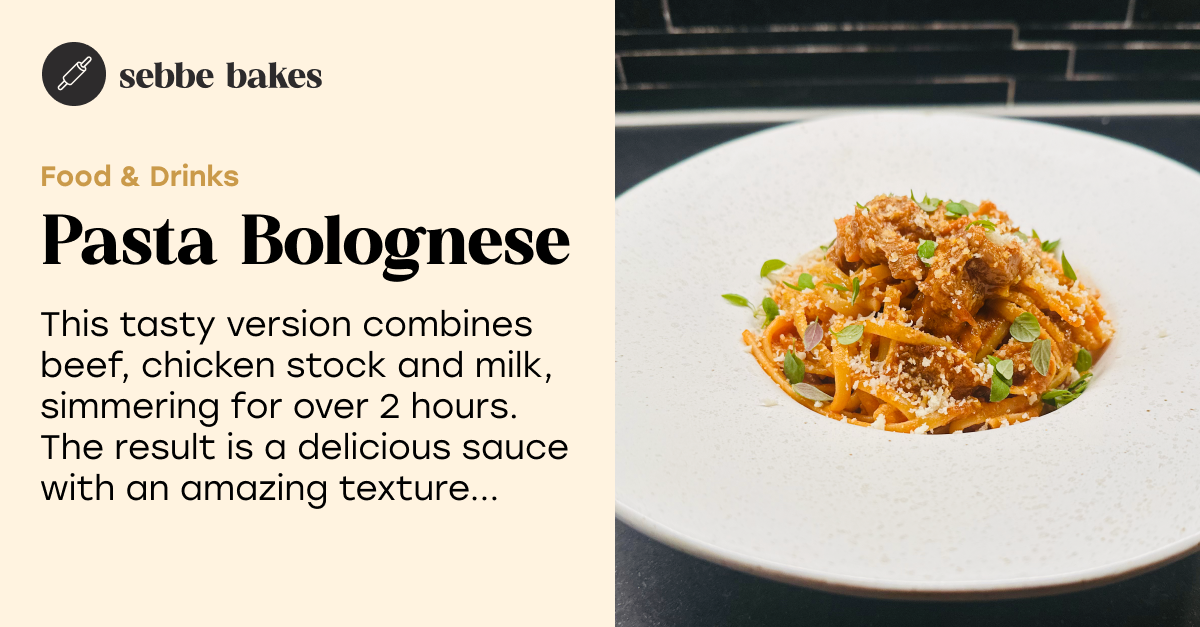
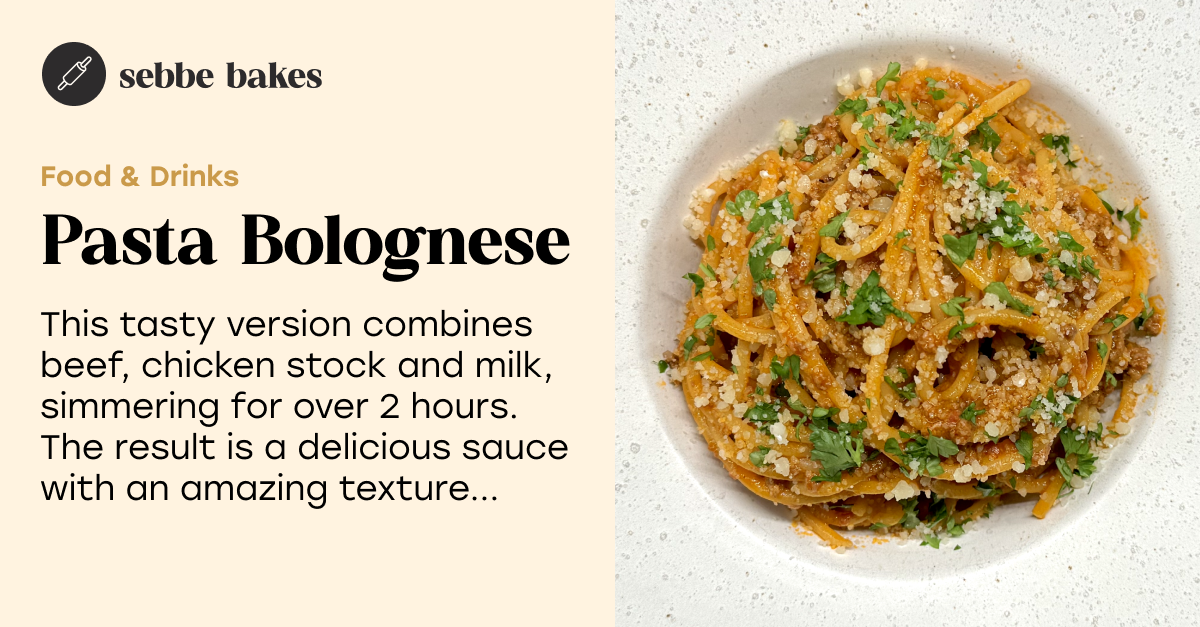
Image tweaks

diff --git a/src/pages/food-and-drinks/bolognese.tsx b/src/pages/food-and-drinks/bolognese.tsx
@@ -7,14 +7,15 @@ import Ingredients from "components/Ingredients";
 import Alert from "components/Alert";
 import MethodImage from "components/MethodImage";
 
-import heroImage from "public/images/recipes/bolognese/thumbnails/tall.jpg";
+import heroImage from "public/images/recipes/bolognese/thumbnails/tall.png";
 
 import metaImage from "public/images/recipes/bolognese/thumbnails/meta.png";
 import image1 from "public/images/recipes/bolognese/1.jpg";
 import image2 from "public/images/recipes/bolognese/2.jpg";
 import image3 from "public/images/recipes/bolognese/3.jpg";
 import image4 from "public/images/recipes/bolognese/4.jpg";
-import image5 from "public/images/recipes/bolognese/5.jpg";
+import image5 from "public/images/recipes/bolognese/5.png";
+import image6 from "public/images/recipes/bolognese/6.png";
 import Method from "components/Method";
 
 const INGREDIENTS = [
@@ -43,7 +44,7 @@ const INGREDIENTS = [
       },
       {
         value: 18.75,
-        label: "Tomato paste (or purée)",
+        label: "Tomato paste",
       },
       {
         value: 17.5,
@@ -58,6 +59,10 @@ const INGREDIENTS = [
         label: "Carrot",
       },
       {
+        value: 7.5,
+        label: "Demi-glace (optional)",
+      },
+      {
         value: 0.2,
         label: "Cloves of garlic",
         valueSuffix: false,
@@ -67,6 +72,12 @@ const INGREDIENTS = [
         value: 0.25,
         label: "Bay leaf",
         valueSuffix: false,
+      },
+      {
+        value: 1,
+        label: "Pinch of dried oregano",
+        valueSuffix: false,
+        excludeValue: true,
       },
       {
         value: 1,
@@ -81,7 +92,7 @@ const INGREDIENTS = [
     ingredients: [
       {
         value: 125,
-        label: "Spaghetti or papardelle",
+        label: "Spaghetti or linguine",
       },
     ],
   },
@@ -90,7 +101,7 @@ const INGREDIENTS = [
     ingredients: [
       {
         value: 99999,
-        label: "Grated Parmesan or Pecorino",
+        label: "Grated Parmesan",
         excludeValue: true,
         valueSuffix: false,
       },
@@ -208,13 +219,14 @@ const STEPS = [
     of the wine has evaporated.
   </Text>,
   <Text extra={<MethodImage src={image4} alt="" />}>
-    Add the <b>tomato paste</b>, <b>garlic</b> and pinch of freshley shredded{" "}
-    <b>nut meg</b>. Let it cook for another 5 minutes.
+    Add the <b>tomato paste</b>, <b>garlic</b>, a pinch of freshley shredded{" "}
+    <b>nut meg</b> and a <em>small</em> pinch of <b>dried oregano</b>. Let it
+    cook for another 5 minutes.
   </Text>,
   <>
     <Text>
-      Add the <b>bay leaf</b> and pour in the <b>chicken stock</b> and{" "}
-      <b>milk</b>.
+      Add the <b>bay leaf</b> and the optional <b>demi-glace</b>, and pour in
+      the <b>chicken stock</b> and <b>milk</b>.
       <br />
       <br />
       Let everything cook on low heat for <b>2–2½ hours</b> without a lid. Stir
@@ -263,7 +275,14 @@ const STEPS = [
     Stir the pasta and the sauce and <b>let it all combine</b> for a minute or
     two.
   </Text>,
-  <Text extra={<MethodImage src={image5} alt="" />}>
+  <Text
+    extra={
+      <>
+        <MethodImage src={image6} alt="" />
+        <MethodImage src={image5} alt="" />
+      </>
+    }
+  >
     Serve the dish with some parmesan, freshly grounded black bepper, olive oil
     and fresh oregano sprinkled on top.
   </Text>,

diff --git a/src/components/Article/Article.tsx b/src/components/Article/Article.tsx
@@ -22,11 +22,12 @@ export const Article = ({ recipe, first, type }: ArticleProps) => {
             priority
             height={483}
             alt=""
-            className="w-full h-auto lg:w-[613px]"
+            className="w-full h-auto lg:w-[613px] object-cover"
             placeholder="blur"
             sizes="(max-width: 768px) 100vw,
             (max-width: 1200px) 40vw,
             40vw"
+            quality={100}
           />
         </Link>
         <Link href={recipe.category.path}>
@@ -53,11 +54,10 @@ export const Article = ({ recipe, first, type }: ArticleProps) => {
             width={408}
             height={196}
             alt=""
-            className="w-full h-full lg:w-[408px] lg:h-[196px]"
+            className="w-full h-auto lg:w-[408px] lg:h-[196px] object-cover"
             placeholder="blur"
-            sizes="(max-width: 768px) 100vw,
-            (max-width: 1200px) 33vw,
-            33vw"
+            sizes="(max-width: 768px) 100vw, (max-width: 1200px) 33vw, 33vw"
+            quality={100}
           />
         </Link>
         <Link href={recipe.category.path}>
@@ -84,11 +84,12 @@ export const Article = ({ recipe, first, type }: ArticleProps) => {
           <Image
             src={recipe.thumbnails.square}
             alt=""
-            className="w-full h-full lg:w-[204] lg:h-[204]"
+            className="w-full h-full lg:w-[204] lg:h-[204] object-cover"
             placeholder="blur"
             sizes="(max-width: 768px) 100vw,
             (max-width: 1200px) 25vw,
             25vw"
+            quality={100}
           />
         </Link>
         <div className="lg:ml-6 flex flex-col">

diff --git a/src/constants/recipes.ts b/src/constants/recipes.ts
@@ -141,9 +141,9 @@ export const RECIPES: Recipe[] = [
     url: "/food-and-drinks/bolognese",
     category: CATEGORIES["food-and-drinks"],
     thumbnails: {
-      hero: require("../../public/images/recipes/bolognese/thumbnails/hero.jpg"),
-      tall: require("../../public/images/recipes/bolognese/thumbnails/tall.jpg"),
-      wide: require("../../public/images/recipes/bolognese/thumbnails/wide.jpg"),
+      hero: require("../../public/images/recipes/bolognese/thumbnails/hero.png"),
+      tall: require("../../public/images/recipes/bolognese/thumbnails/tall.png"),
+      wide: require("../../public/images/recipes/bolognese/thumbnails/wide.png"),
       square: require("../../public/images/recipes/bolognese/thumbnails/square.png"),
       meta: require("../../public/images/recipes/bolognese/thumbnails/meta.png"),
     },

diff --git a/src/utils/truncateString.ts b/src/utils/truncateString.ts
@@ -3,20 +3,16 @@ export const truncateString = (str: string, maxLength: number) => {
 
   let truncatedStr = str.substr(0, maxLength);
 
-  // Find the last space in the truncated string
   let spaceIndex = truncatedStr.lastIndexOf(" ");
 
-  // If the last character is a comma or a period, remove it
   let lastChar = truncatedStr[spaceIndex - 1];
   if (lastChar === "," || lastChar === ".") {
     spaceIndex--;
   }
 
-  // If we found a space, return the string up to this point plus ellipsis
   if (spaceIndex > -1) {
     return `${truncatedStr.substr(0, spaceIndex)}...`;
   }
 
-  // If no space was found, return the truncated string plus ellipsis
   return `${truncatedStr}...`;
 };

diff --git a/src/components/WindowPaneTest/WindowPaneTest.tsx b/src/components/WindowPaneTest/WindowPaneTest.tsx
@@ -11,7 +11,13 @@ export const WindowPaneTest = () => {
           take a piece of dough, and gently stretch it. If it doesn't break, it
           has passed the test! If not, knead a few more minutes.
           <span className="mt-6 block">
-            <Image className="" src={image1} alt="" placeholder="blur" />
+            <Image
+              className=""
+              src={image1}
+              alt=""
+              placeholder="blur"
+              quality={100}
+            />
             <span className="text-xs text-right block italic mt-1">
               Image courtesy of Ankarsum
             </span>

diff --git a/src/components/PokeTest/PokeTest.tsx b/src/components/PokeTest/PokeTest.tsx
@@ -9,7 +9,7 @@ export const PokeTest = () => {
           proofed.
           <br />
           <br />
-          Poke the dough lightly with your finger and observe what happens:
+          Wet your finger and poke the dough lightly and observe what happens:
           <br />
           <br />
           <span className="ml-4 block">

diff --git a/src/components/Tooltip/Tooltip.tsx b/src/components/Tooltip/Tooltip.tsx
@@ -28,6 +28,7 @@ export const Tooltip = ({ value }: { value: string }) => {
               className="w-[15] h-auto"
               src="/images/misc/question-mark.svg"
               alt=""
+              quality={100}
             ></Image>
           </button>
         </Trigger>

diff --git a/src/components/Post/Post.tsx b/src/components/Post/Post.tsx
@@ -58,6 +58,7 @@ export const Post = ({
             sizes="(max-width: 768px) 100vw,
             (max-width: 1200px) 50vw,
             50vw"
+            quality={100}
           />
           {ingredients && <div className="mt-6 lg:mt-12">{ingredients}</div>}
         </aside>
